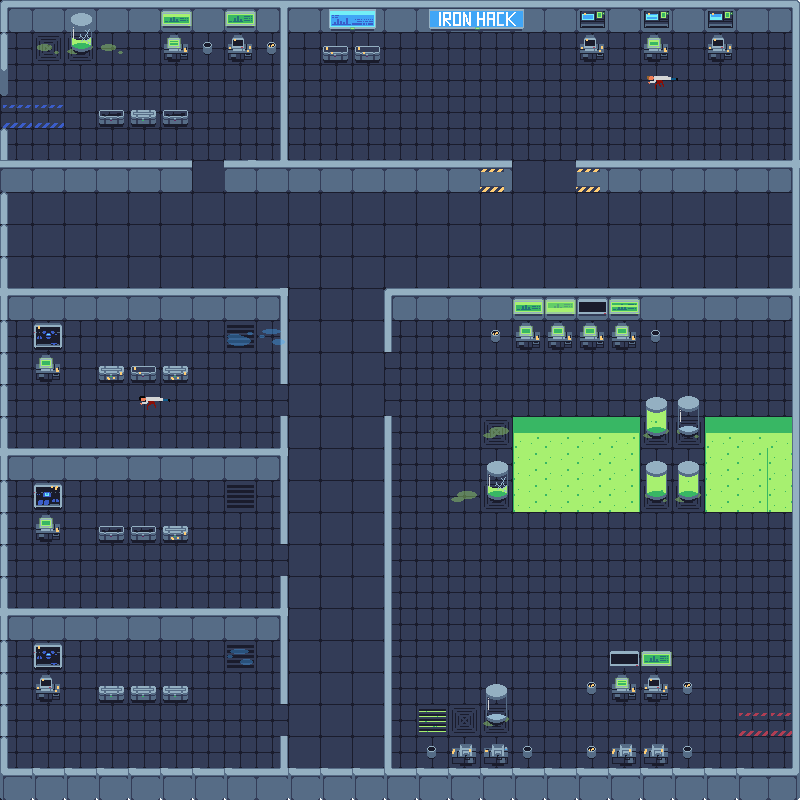
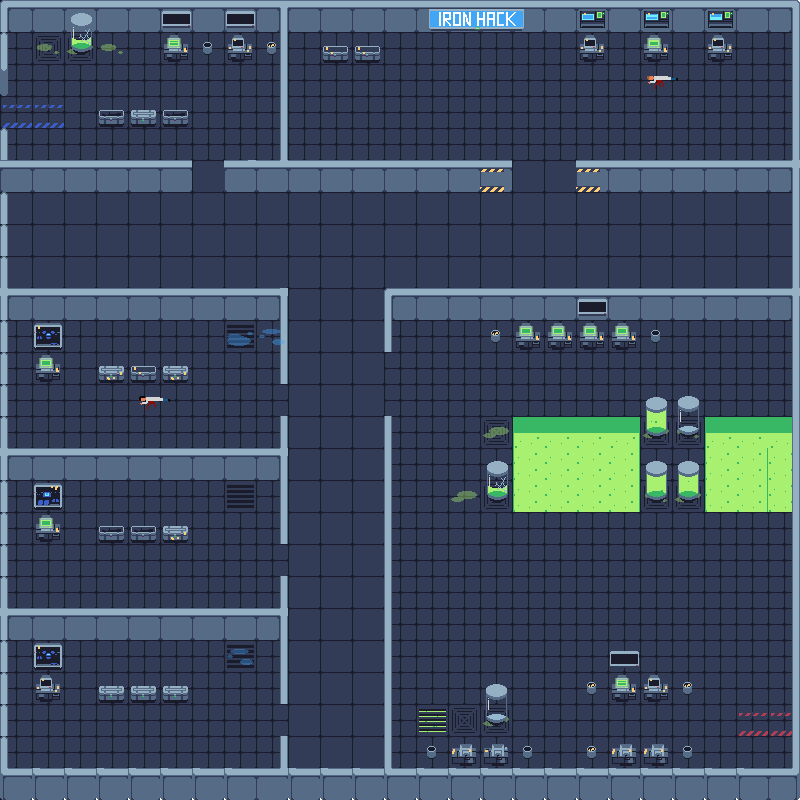
Added item sprites

diff --git a/src/projectiles.js b/src/projectiles.js
@@ -61,7 +61,7 @@ class Projectile{
                     //                              |
                     //   3rd quarant: x neg, y pos  |  4th quadrant: x pos, y pos
                     //                              |
-                    case 1:                      
+                    case 1:               
                         ctx.drawImage(this.image, this.x, this.y, this.width, this.height);
                         this.x += this.speedX;
                         this.y -= this.speedY;
@@ -108,113 +108,6 @@ class Projectile{
        
     }
 
-
-    // drawHero(){
-    //     this.calculateRowColumn()
-    //     if(!Number.isNaN(this.x) && !Number.isNaN(this.y) && this.row != undefined && this.column != undefined){
-    //         //Checks collisions between bullet and walls(1) and between bullet and enemies(9)
-    //         if((![1,9].includes(collisionArray[this.row][this.column]))){
-    //             //There is no collision
-    //             switch(this.quadrant){
-    //                 //                              |
-    //                 //  2nd quadrant: x neg, y neg  |  1st quadrant: x pos, y neg
-    //                 //                              |
-    //                 //                      -------hero-------
-    //                 //                              |
-    //                 //   3rd quarant: x neg, y pos  |  4th quadrant: x pos, y pos
-    //                 //                              |
-    //                 case 1:                      
-    //                     ctx.drawImage(this.image, this.x, this.y, this.width, this.height);
-    //                     this.x += this.speedX;
-    //                     this.y -= this.speedY;
-    //                     break;
-    //                 case 2:
-    //                     ctx.drawImage(this.image, this.x, this.y, this.width, this.height);
-    //                     this.x -= this.speedX;
-    //                     this.y -= this.speedY;           
-    //                     break;
-    //                 case 3:
-    //                     ctx.drawImage(this.image, this.x, this.y, this.width, this.height);
-    //                     this.x -= this.speedX;
-    //                     this.y += this.speedY;
-    //                     break;
-    //                 case 4:
-    //                     ctx.drawImage(this.image, this.x, this.y, this.width, this.height);
-    //                     this.x += this.speedX;
-    //                     this.y += this.speedY;
-    //                     break;
-    //             }
-    //         }else if(collisionArray[this.row][this.column] === 9){
-    //             //Collision with an enemy
-    //             this.enemyImpact();
-    //             totalProjectiles.splice(totalProjectiles.indexOf(this),1)
-    
-    //         }else{
-    //             //Collision with a wall
-    //             console.log('destroy')
-    //             totalProjectiles.splice(totalProjectiles.indexOf(this),1)
-    //         }
-    //     }else{
-    //         console.log('NaN')
-    //     }
-       
-    // }
-
-    // drawRobot(enemy){
-    //     this.calculateRowColumn()
-    //     console.log('enemy: '+ enemy.y)
-    //     console.log('bullet: '+this.y)
-    //     console.log(this.quadrant)
-    //     if(!Number.isNaN(this.x) && !Number.isNaN(this.y) && this.row != undefined && this.column != undefined){
-    //         //Checks collisions between bullet and walls(1) and between bullet and enemies(9)
-    //         if((![1,8].includes(collisionArray[this.row][this.column]))){
-    //             //There is no collision
-    //             switch(this.quadrant){
-    //                 //                              |
-    //                 //  2nd quadrant: x neg, y neg  |  1st quadrant: x pos, y neg
-    //                 //                              |
-    //                 //                      -------hero-------
-    //                 //                              |
-    //                 //   3rd quarant: x neg, y pos  |  4th quadrant: x pos, y pos
-    //                 //                              |
-    //                 case 1:                      
-    //                     ctx.drawImage(this.image, this.x, this.y, this.width, this.height);
-    //                     this.x += this.speedX;
-    //                     this.y -= this.speedY;
-    //                     break;
-    //                 case 2:
-    //                     ctx.drawImage(this.image, this.x, this.y, this.width, this.height);
-    //                     this.x -= this.speedX;
-    //                     this.y -= this.speedY;           
-    //                     break;
-    //                 case 3:
-    //                     ctx.drawImage(this.image, this.x, this.y, this.width, this.height);
-    //                     this.x -= this.speedX;
-    //                     this.y += this.speedY;
-    //                     break;
-    //                 case 4:
-    //                     ctx.drawImage(this.image, this.x, this.y, this.width, this.height);
-    //                     this.x += this.speedX;
-    //                     this.y += this.speedY;
-    //                     break;
-    //             }
-    //         }else if(collisionArray[this.row][this.column] === 8){
-    //             console.log('hero hitted')
-    //             hero.receiveDamage(enemy.attackPoints, enemy);
-    //             enemy.projectiles.splice(enemy.projectiles.indexOf(this),1)
-
-    //         }
-    //         else{
-    //             //Collision with a wall
-    //             enemy.projectiles.splice(enemy.projectiles.indexOf(this),1)
-    //         }
-    //     }else{
-    //         // console.log('NaN')
-    //     }
-       
-    // }
-
-
     calculateRowColumn(){
         this.row= Math.floor(this.y / celPixels);
         this.column = Math.floor(this.x /celPixels);
@@ -243,6 +136,8 @@ function mouseClick(e){
         quadrant = 3;
     }else if( pos.x > 0 && pos.y > 0 ){
         quadrant = 4;
+    }else{
+
     }
 
     totalProjectiles.push(

diff --git a/src/items.js b/src/items.js
@@ -39,3 +39,117 @@ class Item{
                           this.height);    //dHeight Image height to be drawn
     }
 }
+
+const bodyContainerImg = './images/items/body_container.png'
+const blueScreenImg = './images/items/blue_screen.png'
+const greenScreenImg = './images/items/green_screen.png'
+const containerImg ='./images/items/container.png'
+
+let bodyContainer = new Item(bodyContainerImg,
+                            37,
+                            11,
+                            69,
+                            43,
+                            300,
+                            3);
+
+let bodyContainer2 = new Item(bodyContainerImg,
+                            485,
+                            396,
+                            69,
+                            43,
+                            300,
+                            3);
+    
+let bodyContainer3 = new Item(bodyContainerImg,
+                            453,
+                            683,
+                            69,
+                            43,
+                            300,
+                            3);
+
+let container = new Item(containerImg,
+                        645,
+                        396,
+                        69,
+                        43,
+                        300,
+                        3);
+let container2 = new Item(containerImg,
+                        645,
+                        460,
+                        69,
+                        43,
+                        300,
+                        3);
+let container3 = new Item(containerImg,
+                        677,
+                        460,
+                        69,
+                        43,
+                        300,
+                        3);                        
+
+let blueScreen = new Item(blueScreenImg,
+                        328,
+                        9,
+                        147,
+                        22,
+                        300,
+                        3);                 
+
+let greenScreen = new Item(greenScreenImg,
+                        513,
+                        299,
+                        97,
+                        17,
+                        300,
+                        3);      
+
+let greenScreen2 = new Item(greenScreenImg,
+                            545,
+                            299,
+                            97,
+                            17,
+                            300,
+                            3); 
+let greenScreen3 = new Item(greenScreenImg,
+                            609,
+                            299,
+                            97,
+                            17,
+                            300,
+                            3); 
+let greenScreen4 = new Item(greenScreenImg,
+                            640,
+                            651,
+                            97,
+                            17,
+                            300,
+                            3); 
+
+function drawItems(){
+    bodyContainer.update()
+    bodyContainer.draw_sprite();
+    bodyContainer2.update()
+    bodyContainer2.draw_sprite();
+    bodyContainer3.update()
+    bodyContainer3.draw_sprite();
+    container.update()
+    container2.draw_sprite();
+    container2.update()
+    container3.draw_sprite();
+    container3.update()
+    container.draw_sprite();
+    blueScreen.update()
+    blueScreen.draw_sprite();
+    greenScreen.update()
+    greenScreen.draw_sprite();
+    greenScreen2.update()
+    greenScreen2.draw_sprite();
+    greenScreen3.update()
+    greenScreen3.draw_sprite();
+    greenScreen4.update()
+    greenScreen4.draw_sprite();
+}

diff --git a/src/index.js b/src/index.js
@@ -17,6 +17,10 @@ map.src = './images/maps/map_lvl1.png'
 let blueBulletImg = new Image();
 blueBulletImg.src = './images/projectiles/blue_bullet.png'
 
+let greenBulletImg = new Image();
+greenBulletImg.src = './images/projectiles/green_bullet.png'
+
+
 let healthBar = new Image();
 
 const meleeImgStop = './images/enemies/melee_enemy_stop_right.png';
@@ -25,8 +29,6 @@ const meleeImgRight = './images/enemies/melee_enemy_run_right.png';
 const rageImgStop = './images/enemies/range_enemy_stop_right.png';
 const rangeImgLeft = './images/enemies/range_enemy_run_left.png';
 const rangeImgRight = './images/enemies/range_enemy_run_right.png';
-
-const bodyContainerImg = './images/items/body_container.png'
 
 const celPixels = 32;
 let direction = 'up';
@@ -56,30 +58,6 @@ let hero = new Hero(heroSprite,  //the spritesheet image
                     4,
                     11);
 
-
-let bodyContainer = new Item(bodyContainerImg,
-                            37,
-                            11,
-                            67,
-                            43,
-                            300,
-                            3);
-   
-let bodyContainer2 = new Item(bodyContainerImg,
-                            485,
-                            396,
-                            67,
-                            43,
-                            300,
-                            3);
-                            
-let bodyContainer3 = new Item(bodyContainerImg,
-                            453,
-                            683,
-                            67,
-                            43,
-                            300,
-                            3);
 
 //update function to update all the GameObjects
 function update(object) {
@@ -130,12 +108,7 @@ function loop() {
     ctx.drawImage(map,0,0,map.width,map.height);
     hero.update();
     hero.draw();
-    bodyContainer.update()
-    bodyContainer.draw_sprite();
-    bodyContainer2.update()
-    bodyContainer2.draw_sprite();
-    bodyContainer3.update()
-    bodyContainer3.draw_sprite();
+    drawItems();
     for(let projectile of totalProjectiles){
         projectile.draw(hero)
     }
@@ -149,6 +122,9 @@ function loop() {
                 projectile.draw(enemy);
             }
         }
+    }
+    if(totalEnemies.length === 0){
+        map.src = './images/maps/map_lvl1_open.png'
     }
     requestAnimationFrame(loop);
 }

diff --git a/src/enemies.js b/src/enemies.js
@@ -230,7 +230,7 @@ class RangeRobot extends Enemy{
         }
 
         this.projectiles.push(
-            new Projectile(blueBulletImg,
+            new Projectile(greenBulletImg,
                 this.x,
                 this.y,
                 blueBulletImg.width,
